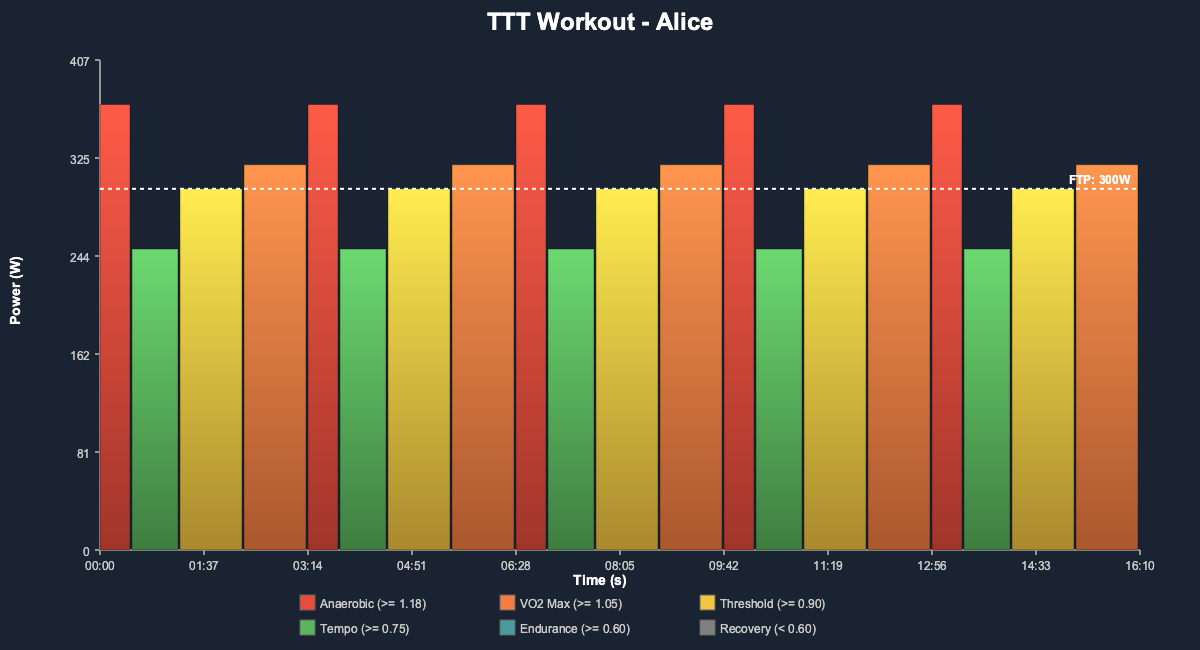
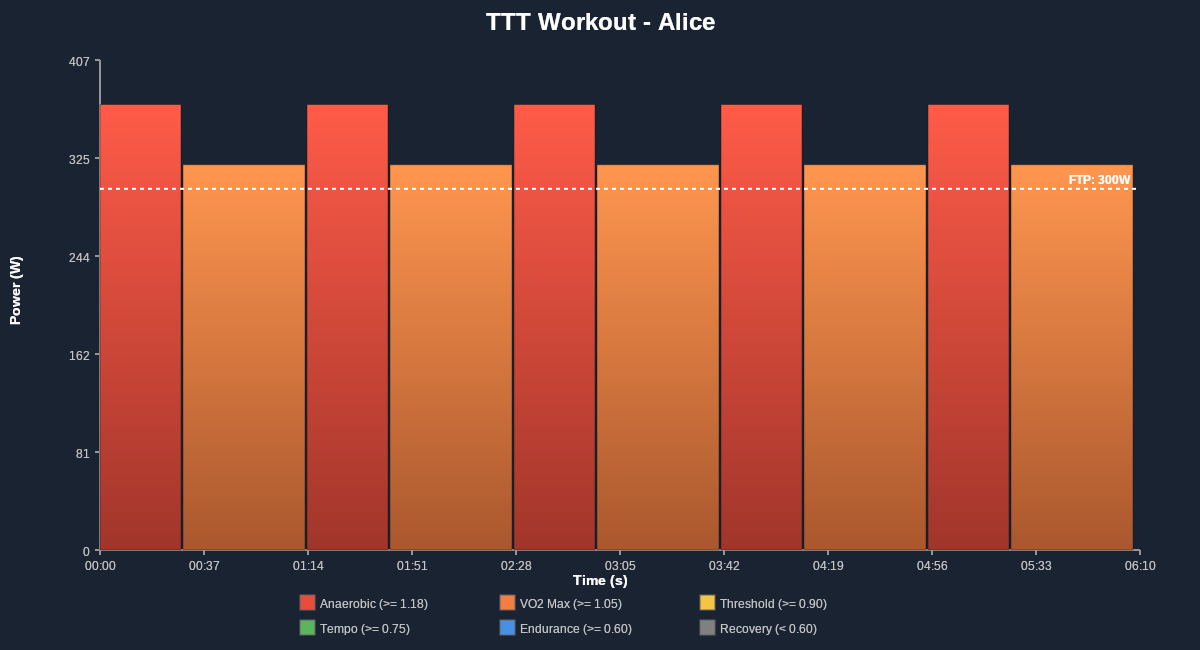
Update Endurance zone color from teal to blue and regenerate sample images

diff --git a/ZwiftTTTSim.Core/Services/ImageExporter.cs b/ZwiftTTTSim.Core/Services/ImageExporter.cs
@@ -168,7 +168,7 @@ public class ImageExporter
                 >= 1.05 => new SKColor(244, 125, 66),     // Orange #f47d42 for VO2 Max
                 >= 0.90 => new SKColor(244, 197, 66),     // Yellow #f4c542 for Threshold
                 >= 0.75 => new SKColor(90, 181, 94),      // Green #5ab55e for Tempo
-                >= 0.60 => new SKColor(74, 155, 155),     // Teal #4a9b9b for Endurance
+                >= 0.60 => new SKColor(74, 144, 226),     // Blue #4a90e2 for Endurance
                 _ => new SKColor(128, 128, 128)           // Grey #808080 for Recovery
             };
 
@@ -268,7 +268,7 @@ public class ImageExporter
             (Color: new SKColor(244, 125, 66), Text: "VO2 Max (>= 1.05)"),      // #f47d42
             (Color: new SKColor(244, 197, 66), Text: "Threshold (>= 0.90)"),    // #f4c542
             (Color: new SKColor(90, 181, 94), Text: "Tempo (>= 0.75)"),         // #5ab55e
-            (Color: new SKColor(74, 155, 155), Text: "Endurance (>= 0.60)"),    // #4a9b9b
+            (Color: new SKColor(74, 144, 226), Text: "Endurance (>= 0.60)"),    // #4a90e2
             (Color: new SKColor(128, 128, 128), Text: "Recovery (< 0.60)")      // #808080
         };
         
